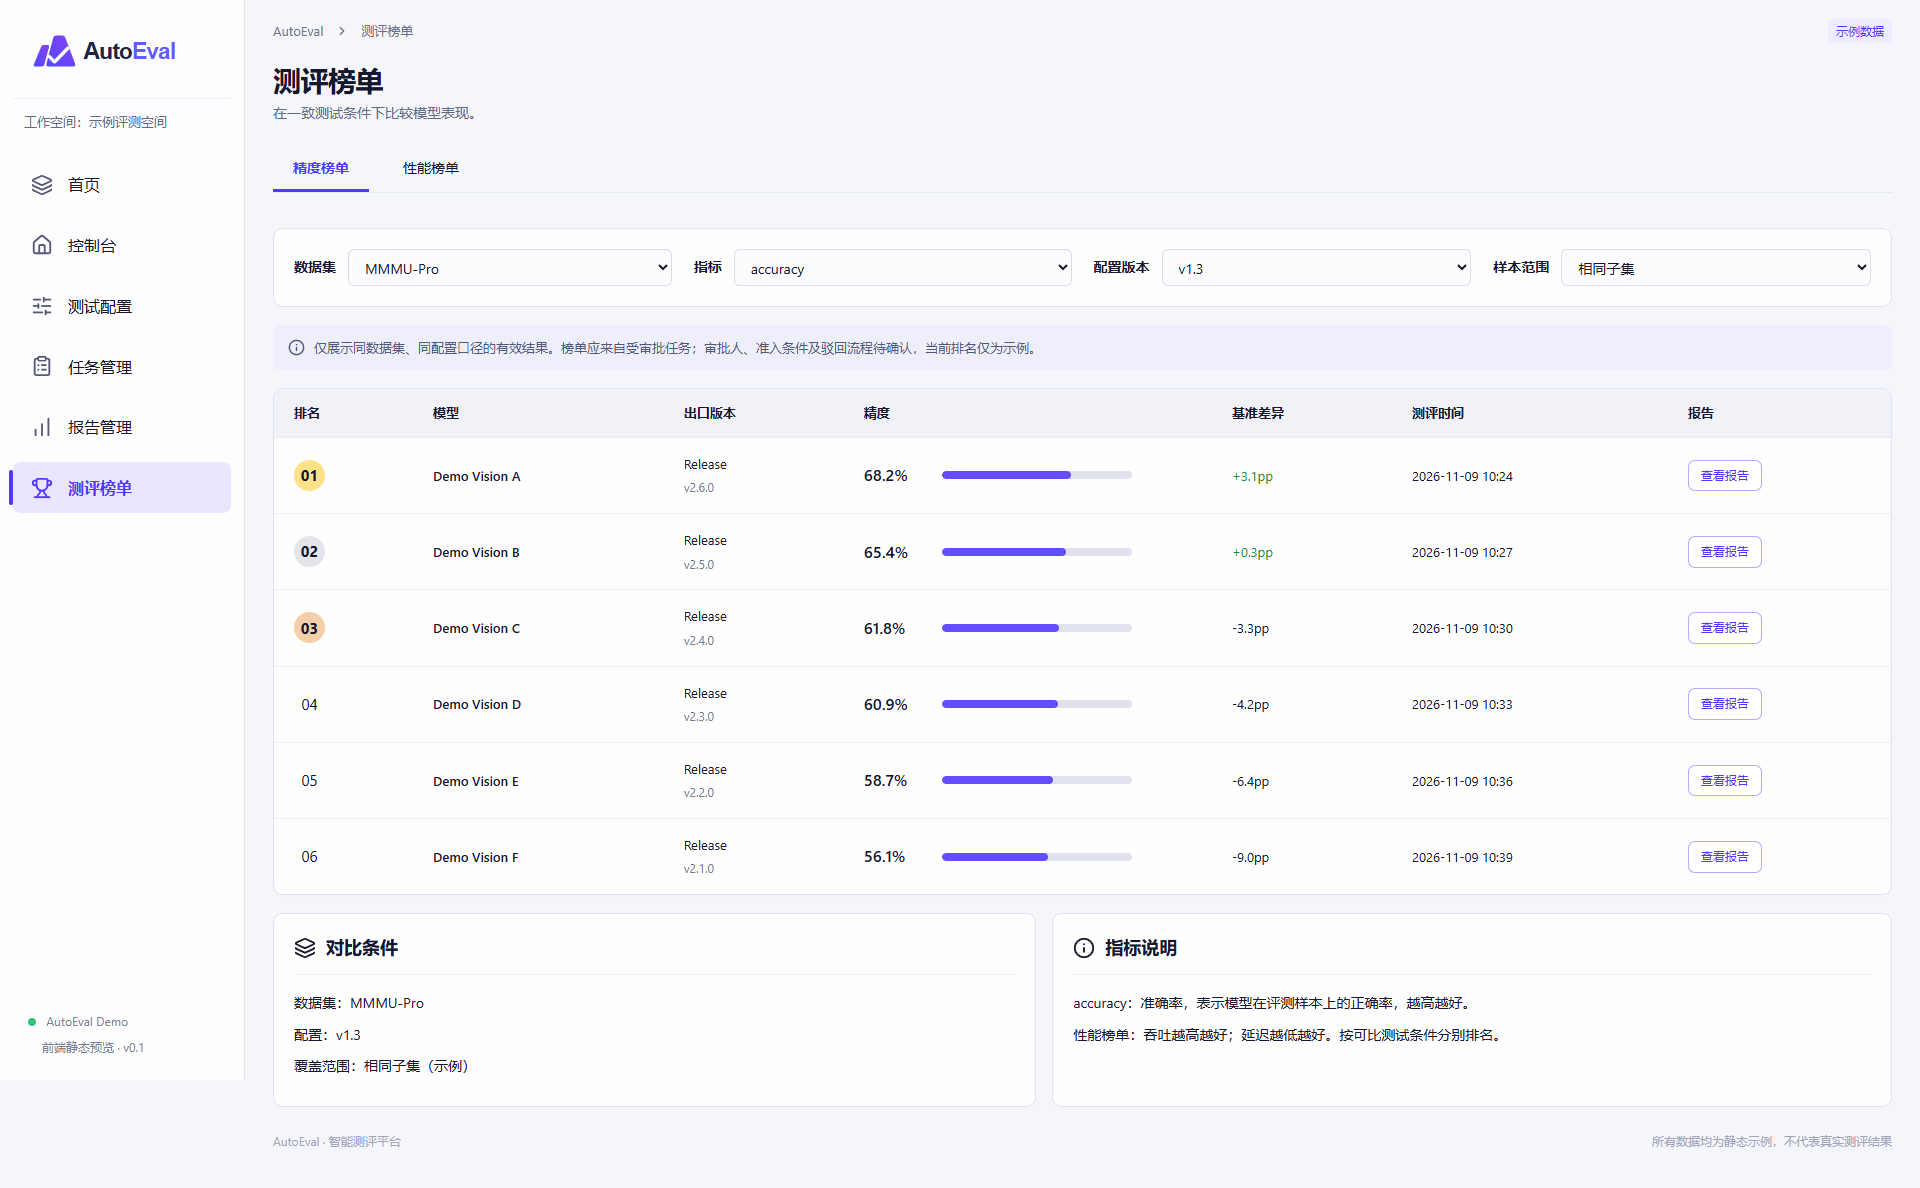
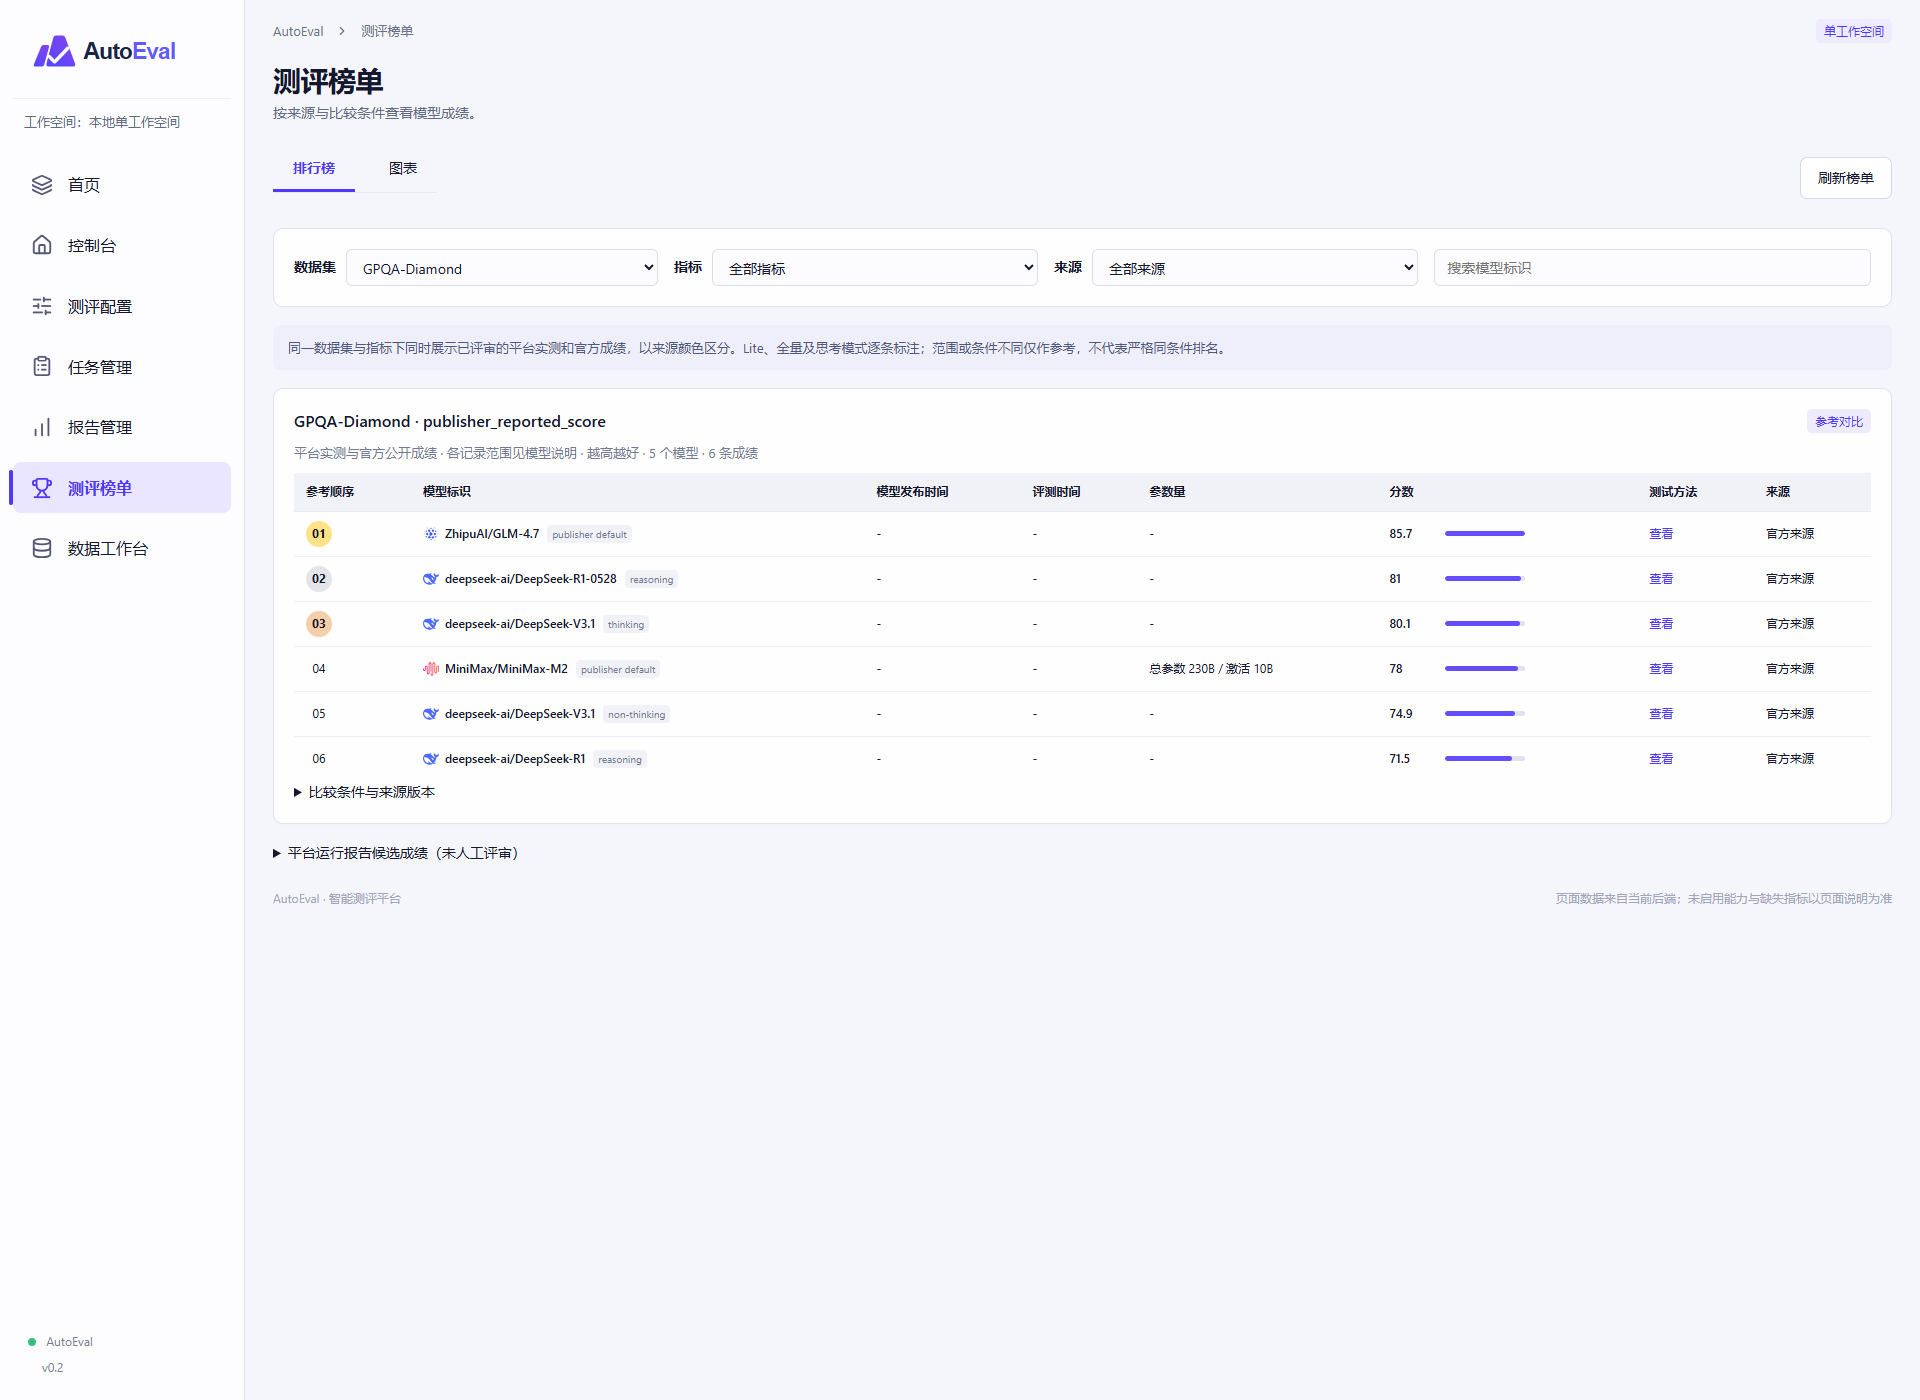
docs: refresh README and current application screenshots

diff --git a/README.md b/README.md
@@ -91,6 +91,8 @@ npm run dev
 - 报告可回溯来源任务、case 的每次尝试与证据。失败历史不因重试成功而覆盖。
 - `validity` 表示历史执行完整性，`evidence_status` 表示当前报告证据状态。缺失、不可用或校验失败的证据不作为有效成绩，不计算基准差值，不参与榜单；不补零或伪造成绩。
 - 报告总览增加准确率与基线对比图、百分点差异及基线版本；缺失证据或不可比时不绘制虚假数值。性能区域暂显示未采集说明，尚无吞吐量、延迟及性能基线。
+- 模型、服务、执行资源与数据集选择支持搜索；模型标识统一展示为厂商 / 模型名，完整标识可在管理入口核对。
+- 榜单支持排行榜 / 图表切换、数据集、指标、来源筛选和模型搜索；展示来源及可用元数据，缺失发布时间、评测时间或参数量保持空缺，不使用抓取时间代替评测时间。来源资料见 [官方数据快照](./docs/official-data/2026-11-11/)。
 - 开发模式新增 `#data-workbench` 数据工作台：报告提名、评审批准 / 驳回、撤回与修改、人工及官方来源录入、JSON 批量导入。榜单支持非报告成绩，按来源和条件独立分组；原自动报告排名作为未人工评审的候选成绩保留。
 - Docker 诊断集中至数据工作台。生产前端不包含工作台和诊断控件；维护 API 同样限制在 development/test。当前本地操作员自审不等同于生产审批或正式门禁。
 - 空输出、截断等诊断保持原生评分规则，不能由平台擅自改判。缺测、执行失败、评分失败和不可比须分别展示。
@@ -116,13 +118,15 @@ uv run pytest -q
 
 依赖、构建产物、凭据、.env、本地备份和分享包不提交 Git。密码、私钥和 API Key 仅由后台受保护配置管理，不进入前端存储、运行快照或普通日志。
 
-## 历史页面预览
+## 当前页面预览
 
-以下截图保留早期原型的视觉参考，图中数据为示例，不代表当前后台事实或已验证测评结果。当前功能以实际页面和下述验证记录为准。
+以下截图于 2026-11-11 从当前本机开发环境重新采集，视口为 1920 × 1400，长页面使用整页截图。截图包含本机配置与测试记录，不代表生产验收；未创建测评、调用模型或修改榜单数据。
+
+任务和报告详情展示现存历史记录；原始证据缺失提示及空指标如实保留。榜单中的官方来源成绩来自已录入的外部快照，不代表 AutoEval 已复现；条件不同的成绩仅作参考。截图不是正确性验收证据。
 
 ### 首页
 
-> 首页截图已更新，展示精度测评演示范围与性能测评示意说明。首页截图尺寸为 1920 × 1500。
+> 当前开放 GPQA Lite 探索；性能测评仍未接入。
 
 ![首页](./docs/screenshots/00-home.png)
 
@@ -130,7 +134,7 @@ uv run pytest -q
 
 ![控制台](./docs/screenshots/01-console.png)
 
-### 测试配置
+### 测评配置
 
 ![测试配置](./docs/screenshots/02-config.png)
 
@@ -166,9 +170,13 @@ uv run pytest -q
 
 ![测评榜单](./docs/screenshots/07-leaderboard.png)
 
+### 数据工作台
+
+![数据工作台](./docs/screenshots/11-data-workbench.png)
+
 ## 开发数据工作台
 
-开发环境新增“数据工作台”菜单，支持报告提名与评审、外部榜单成绩维护、官方 JSON 快照导入和环境诊断。榜单不要求全部来源于报告；不同来源与比较条件独立分组。使用前应用数据库迁移至 `0022_leaderboard_curation`，详见 [使用与接口说明](./docs/data-workbench.md)。尚未对接官网自动同步。
+开发环境新增“数据工作台”菜单，支持报告提名与评审、外部榜单成绩维护、官方 JSON 快照导入和环境诊断。榜单不要求全部来源于报告；不同来源与比较条件独立分组。使用前应用数据库迁移至 `0022_leaderboard_curation`，详见 [使用与接口说明](./docs/data-workbench.md)。支持官方来源快照导入及仓库中的定向导入脚本；尚未提供通用官网自动同步或定时调度。
 
 ## 浏览器回归检查
 
